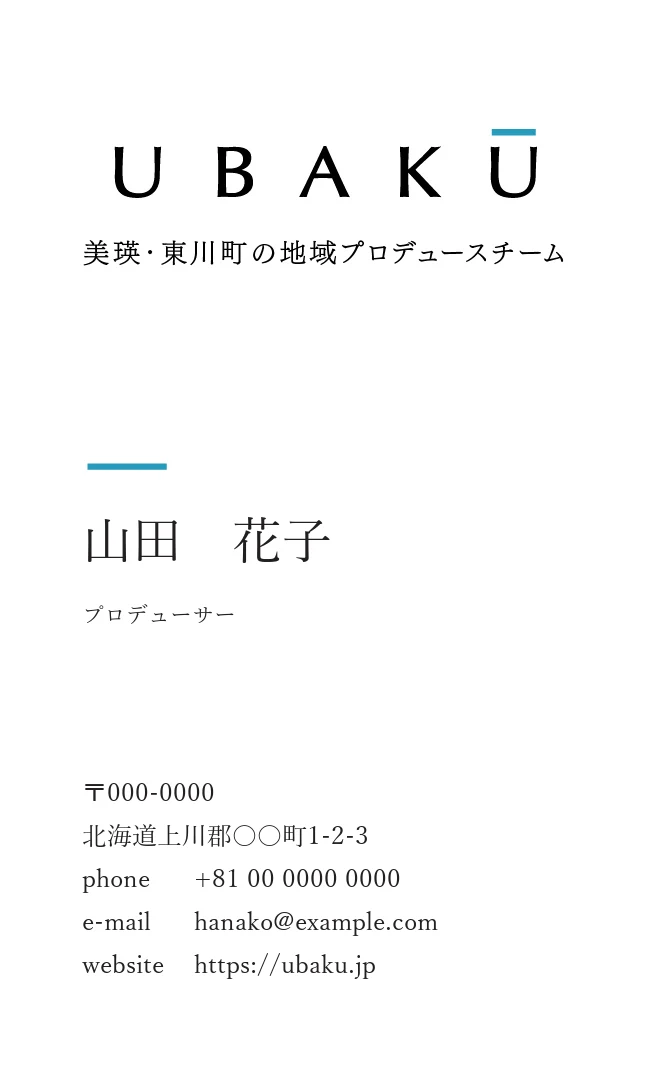
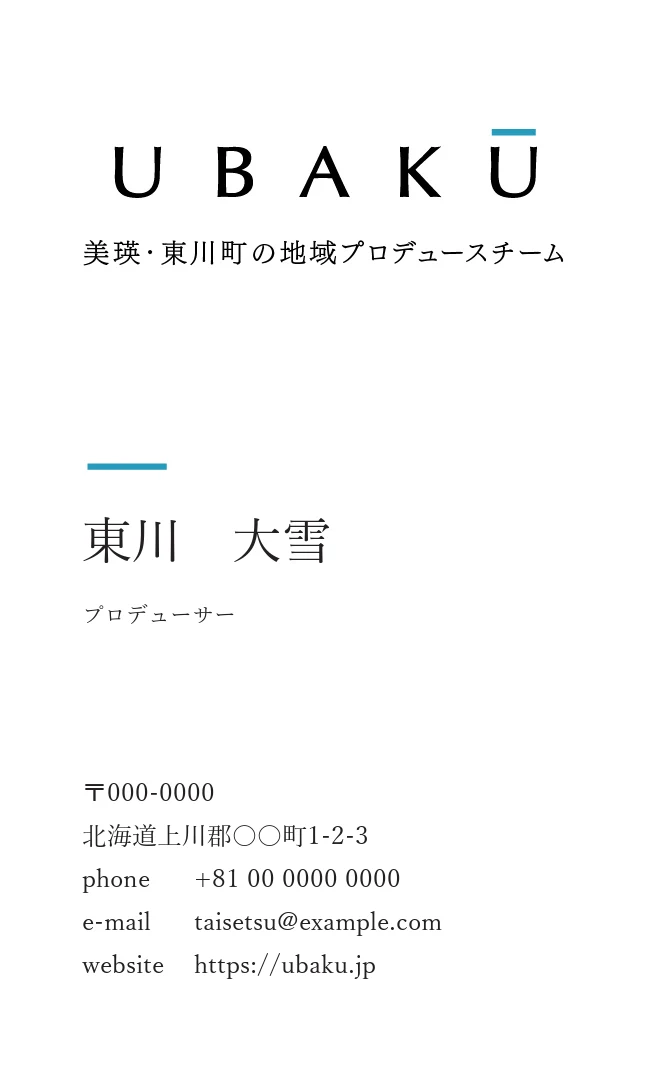
仮公開の更新（Design：スマホの写真の位置・Green・カードの大きさ・名刺の見本の名前・Contact の改行／Consulting：Step 1・リンク・余白・建物の言い方／お見積りのリンクを削除）

Changed region(s): [[0.3077, 0.8288, 0.6769, 0.8902], [0.3692, 0.4605, 0.5231, 0.5219], [0.1231, 0.4605, 0.2769, 0.5219]]

diff --git a/design/index.html b/design/index.html
@@ -29,9 +29,9 @@
 <link rel="stylesheet" href="https://fonts.googleapis.com/css2?family=Noto+Sans+JP:wght@300;400;500&family=Noto+Serif+JP:wght@400&family=Cormorant+Garamond:ital,wght@0,500;0,600;1,400;1,500&family=Jost:wght@200;300;400&family=EB+Garamond:wght@500&family=Murecho:wght@400&display=swap">
 
 <!-- デザイン：トップページと共通の style.css ＋ 下層ページ用の sub.css ＋ UBAKU Letter の札 -->
-<link rel="stylesheet" href="../assets/css/style.css?v=202610260945">
-<link rel="stylesheet" href="../assets/css/sub.css?v=202610260945">
-<link rel="stylesheet" href="../assets/css/letter.css?v=202610260945">
+<link rel="stylesheet" href="../assets/css/style.css?v=202610261842">
+<link rel="stylesheet" href="../assets/css/sub.css?v=202610261842">
+<link rel="stylesheet" href="../assets/css/letter.css?v=202610261842">
 
 <!-- Googleにページの内容を伝えるデータ（このページで受けている仕事） -->
 <script type="application/ld+json">
@@ -196,7 +196,7 @@
   <div class="case-intro js-reveal">
     <span class="label">Works 01｜北海道美瑛町・一棟貸しの宿</span>
     <p class="biz-name">UBAKU Villa <span class="biz-name-jp">宇莫別荘</span></p>
-    <p class="body">美瑛の集落・中宇莫別に建つ築約60年の建物を、フルリノベーションして一棟貸しの宿に。暗く閉じていた部屋に光を入れ、窓の外の森や丘が主役になるよう、白い壁と明るい木の床でまとめました。2026年1月開業。</p>
+    <p class="body">美瑛の集落・中宇莫別に建つ1968年築、半世紀を超えて受け継がれてきた元農家住宅を、フルリノベーションして一棟貸しの宿に。暗く閉じていた部屋に光を入れ、窓の外の森や丘が主役になるよう、白い壁と明るい木の床でまとめました。2026年1月開業。</p>
   </div>
 
   <!-- 横長の4組（1組ずつ）→ 縦長の4組（2組ずつ横に並べる）。
@@ -285,7 +285,7 @@
       <!-- ロゴ（白地） -->
       <figure class="vi vi--w4 vi--logo js-reveal vi-m3"><div class="vi-face"><span class="wordmark vi-wordmark" role="img" aria-label="UBAKU のロゴ"></span></div><figcaption>Logo｜ロゴ</figcaption></figure>
       <!-- ロゴ（緑地） -->
-      <figure class="vi vi--w2 js-reveal vi-m3"><div class="vi-face vi-face--main"><span class="wordmark vi-wordmark vi-wordmark--light" role="img" aria-label="UBAKU のロゴ（緑の地）"></span></div><figcaption>On Green｜緑の地</figcaption></figure>
+      <figure class="vi vi--w2 js-reveal vi-m3"><div class="vi-face vi-face--main"><span class="wordmark vi-wordmark vi-wordmark--light" role="img" aria-label="UBAKU のロゴ（緑の地）"></span></div><figcaption>Green｜緑の地</figcaption></figure>
       <!-- 事業ごとの色（Ū の横線） -->
       <figure class="vi vi--w6 js-reveal vi-m6"><div class="vi-face vi-face--system">
         <div><span class="wordmark" style="--logo-bar:#23A0DA" role="img" aria-label="UBAKU"></span><small>UBAKU</small></div>
@@ -321,7 +321,7 @@
   </article>
 
   <!-- ===== Brand 02：UBAKU Villa 宇莫別荘 ===== -->
-  <article class="brand" style="--b-main:#004030;--b-sub:#C4B370">
+  <article class="brand" style="--b-main:#29463D;--b-sub:#C4B370">
     <div class="brand-head js-reveal">
       <span class="label">Brand 02｜一棟貸しの宿｜2025</span>
       <p class="biz-name">UBAKU Villa <span class="biz-name-jp">宇莫別荘</span></p>
@@ -333,12 +333,12 @@
       <!-- ロゴ（白地・黒） -->
       <figure class="vi vi--w2 js-reveal vi-m2"><div class="vi-face"><img class="vi-villa" src="../assets/img/works/03-logo-black.webp?v=2" alt="UBAKU Villa 宇莫別荘のロゴ" width="1381" height="918" loading="lazy"></div><figcaption>Logo｜ロゴ</figcaption></figure>
       <!-- ロゴ（緑地・白） -->
-      <figure class="vi vi--w2 js-reveal vi-m2"><div class="vi-face vi-face--main"><img class="vi-villa" src="../assets/img/works/03-logo-white.webp?v=2" alt="UBAKU Villa 宇莫別荘のロゴ（緑の地に白）" width="1381" height="918" loading="lazy"></div><figcaption>On Green｜緑の地</figcaption></figure>
+      <figure class="vi vi--w2 js-reveal vi-m2"><div class="vi-face vi-face--main"><img class="vi-villa" src="../assets/img/works/03-logo-white.webp?v=2" alt="UBAKU Villa 宇莫別荘のロゴ（緑の地に白）" width="1381" height="918" loading="lazy"></div><figcaption>Green｜緑の地</figcaption></figure>
       <!-- ロゴ（緑地・金）：白いロゴを型にして金色で塗る -->
       <figure class="vi vi--w2 js-reveal vi-m2"><div class="vi-face vi-face--main"><span class="vi-villa vi-villa--gold" role="img" aria-label="UBAKU Villa のロゴ（緑の地に金）"></span></div><figcaption>Gold｜金色</figcaption></figure>
       <!-- カラー -->
       <figure class="vi vi--w2 vi--tall js-reveal vi-m6"><div class="vi-face vi-face--palette vi-face--palette3">
-        <span style="--c:#004030"><b>#004030</b>森の緑</span>
+        <span style="--c:#29463D"><b>#29463D</b>森の緑</span>
         <span style="--c:#C4B370"><b>#C4B370</b>金</span>
         <span style="--c:#F4F1EA" class="is-light"><b>#F4F1EA</b>生成り</span>
       </div><figcaption>Color｜カラー</figcaption></figure>
@@ -412,7 +412,7 @@
       <p class="body">予約サイトへの登録、宿の説明文や写真撮影は、UBAKU Consulting が担当します。</p>
     </article>
   </div>
-  <p class="menu-cta">費用は、ご相談の内容や建物の規模に合わせてお見積りします。まずはお気軽にご相談ください。<a class="more" href="#contact">ご相談・お見積りはこちら</a></p>
+  <p class="menu-cta">費用は、ご相談の内容や建物の規模に合わせてお見積りします。まずはお気軽にご相談ください。</p>
 </section>
 
 <!-- ======================= ⑦ FAQ｜よくあるご質問 ======================= -->
@@ -540,9 +540,9 @@
 </section>
 
 <script src="https://web3forms.com/client/script.js" async defer></script>
-<script src="../assets/js/main.js?v=202610260945"></script>
+<script src="../assets/js/main.js?v=202610261842"></script>
 <!-- UBAKU Letter：右下の札だけ（data-band="off" でページの中の購読欄は入れない） -->
-<script src="../assets/js/letter.js?v=202610260945" data-privacy="../privacy/" data-band="off"></script>
+<script src="../assets/js/letter.js?v=202610261842" data-privacy="../privacy/" data-band="off"></script>
 
 <!-- ページの一番上へ戻るボタン（矢印だけ。スクロールすると右下の UBAKU Letter の札の上に出る。2026-10-25） -->
 <a class="to-top" href="#" aria-label="ページの一番上へ"><svg viewBox="0 0 24 24" aria-hidden="true"><path d="M12 19V5M5.5 11.5 12 5l6.5 6.5"/></svg></a>

diff --git a/consulting/index.html b/consulting/index.html
@@ -29,9 +29,9 @@
 <link rel="stylesheet" href="https://fonts.googleapis.com/css2?family=Noto+Sans+JP:wght@300;400;500&family=Noto+Serif+JP:wght@400&family=Cormorant+Garamond:ital,wght@0,500;0,600;1,400;1,500&family=Jost:wght@200;300;400&family=EB+Garamond:wght@500&family=Murecho:wght@400&display=swap">
 
 <!-- デザイン：トップページと共通の style.css ＋ 下層ページ用の sub.css ＋ UBAKU Letter の札 -->
-<link rel="stylesheet" href="../assets/css/style.css?v=202610260945">
-<link rel="stylesheet" href="../assets/css/sub.css?v=202610260945">
-<link rel="stylesheet" href="../assets/css/letter.css?v=202610260945">
+<link rel="stylesheet" href="../assets/css/style.css?v=202610261842">
+<link rel="stylesheet" href="../assets/css/sub.css?v=202610261842">
+<link rel="stylesheet" href="../assets/css/letter.css?v=202610261842">
 
 <!-- Googleにページの内容を伝えるデータ（このページで受けている仕事） -->
 <script type="application/ld+json">
@@ -240,7 +240,7 @@
       <p class="support-note"><strong>運営代行は行っていません。</strong>日々の運営はオーナーご自身で。UBAKUは、仕組みづくりと改善の相談で支えます。そのため、運営サポートのメニューはあえて少なくしています。</p>
     </article>
   </div>
-  <p class="menu-cta">費用は、ご相談の内容や建物の規模に合わせてお見積りします。まずはお気軽にご相談ください。<a class="more" href="#contact">ご相談・お見積りはこちら</a></p>
+  <p class="menu-cta">費用は、ご相談の内容や建物の規模に合わせてお見積りします。まずはお気軽にご相談ください。</p>
 </section>
 
 <!-- ======================= ⑥ Case｜事例（トップの Villa と同じ形） ======================= -->
@@ -255,15 +255,15 @@
       <span class="label">Case 01｜北海道美瑛町</span>
       <h3 class="biz-name">UBAKU Villa <span class="biz-name-jp">宇莫別荘</span></h3>
       <p class="catch">1日1組限定の、一棟貸しの宿。</p>
-      <p class="body">美瑛の集落・中宇莫別に建つ築約60年の建物を、物件探しから自分たちで手がけ、2026年1月に開業しました。いまお客さまにお渡ししている支援は、すべてこの宿で一度試したものです。</p>
+      <p class="body">美瑛の集落・中宇莫別に建つ1968年築、半世紀を超えて受け継がれてきた元農家住宅を、物件探しから自分たちで手がけ、2026年1月に開業しました。いまお客さまにお渡ししている支援は、すべてこの宿で一度試したものです。</p>
       <ol class="timeline">
-        <li><span>Step 1</span><span>物件の取得・インスペクション（建物の状態の調査）</span></li>
+        <li><span>Step 1</span><span>物件の取得・建物の調査</span></li>
         <li><span>Step 2</span><span>事業計画・収支計画、融資の申し込み</span></li>
         <li><span>Step 3</span><span>フルリノベーション</span></li>
         <li><span>Step 4</span><span>旅館業の許可、予約サイトの準備など</span></li>
         <li><span>Step 5</span><span>開業。少ない人数で回せる運営へ</span></li>
       </ol>
-      <a class="more" href="../design/#works">この宿の改修のビフォー・アフターを見る（UBAKU Design）</a>
+      <a class="more" href="../design/#works">改修のビフォー・アフターを見る（UBAKU Design）</a>
     </div>
   </article>
 </section>
@@ -407,9 +407,9 @@
 </section>
 
 <script src="https://web3forms.com/client/script.js" async defer></script>
-<script src="../assets/js/main.js?v=202610260945"></script>
+<script src="../assets/js/main.js?v=202610261842"></script>
 <!-- UBAKU Letter：右下の札だけ（data-band="off" でページの中の購読欄は入れない） -->
-<script src="../assets/js/letter.js?v=202610260945" data-privacy="../privacy/" data-band="off"></script>
+<script src="../assets/js/letter.js?v=202610261842" data-privacy="../privacy/" data-band="off"></script>
 
 <!-- ページの一番上へ戻るボタン（矢印だけ。スクロールすると右下の UBAKU Letter の札の上に出る。2026-10-25） -->
 <a class="to-top" href="#" aria-label="ページの一番上へ"><svg viewBox="0 0 24 24" aria-hidden="true"><path d="M12 19V5M5.5 11.5 12 5l6.5 6.5"/></svg></a>

diff --git a/index.html b/index.html
@@ -32,8 +32,8 @@
 <link rel="stylesheet" href="https://fonts.googleapis.com/css2?family=Noto+Sans+JP:wght@300;400;500&family=Noto+Serif+JP:wght@400&family=Cormorant+Garamond:ital,wght@0,500;0,600;1,400;1,500&family=Jost:ital,wght@0,200;0,300;0,400;1,300&family=EB+Garamond:wght@500&family=Murecho:wght@400&display=swap">
 
 <!-- デザイン（色・フォント・余白はすべてこのファイルで管理） -->
-<link rel="stylesheet" href="assets/css/style.css?v=202610260945">
-<link rel="stylesheet" href="assets/css/letter.css?v=202610260945">   <!-- UBAKU Letter（メルマガ）の購読：右下の札・窓・Journal のあとの購読欄 -->
+<link rel="stylesheet" href="assets/css/style.css?v=202610261842">
+<link rel="stylesheet" href="assets/css/letter.css?v=202610261842">   <!-- UBAKU Letter（メルマガ）の購読：右下の札・窓・Journal のあとの購読欄 -->
 
 <!-- Googleに会社情報を伝えるデータ（構造化データ）
      ロゴ画像と note のURLが決まったら "logo" と sameAs に追加する -->
@@ -237,7 +237,7 @@
           <span class="label">Stay｜泊まる</span>
           <h3 class="biz-name">UBAKU Villa <span class="biz-name-jp">宇莫別荘</span></h3>
           <p class="catch">暮らしに余白をもたらす貸切宿。</p>
-          <p class="body">美瑛の集落・中宇莫別に建つ、1日1組限定の一棟貸しの宿。築約60年の建物をフルリノベーションし、2026年1月に開業。約1,800㎡の敷地に、最大10名で一棟まるごと過ごせます。旭川空港から車で約18分、美瑛駅から車で約10分。</p>
+          <p class="body">美瑛の集落・中宇莫別に建つ、1日1組限定の一棟貸しの宿。1968年築、半世紀を超えて受け継がれてきた元農家住宅をフルリノベーションし、2026年1月に開業。約1,800㎡の敷地に、最大10名で一棟まるごと過ごせます。旭川空港から車で約18分、美瑛駅から車で約10分。</p>
           <p class="biz-extra"><span>UBAKU Villa 南邸｜Coming soon</span>美瑛駅から歩いて10分の宿を準備中。</p>
           <a class="more" href="https://ubakuvilla.com" target="_blank" rel="noopener">宇莫別荘の公式サイトへ</a>
         </div>
@@ -444,9 +444,9 @@
 </section>
 
 <script src="https://web3forms.com/client/script.js" async defer></script>
-<script src="assets/js/notes.js?v=202610260945"></script>
-<script src="assets/js/main.js?v=202610260945"></script>
-<script src="assets/js/letter.js?v=202610260945"></script>
+<script src="assets/js/notes.js?v=202610261842"></script>
+<script src="assets/js/main.js?v=202610261842"></script>
+<script src="assets/js/letter.js?v=202610261842"></script>
 
 <!-- ページの一番上へ戻るボタン（矢印だけ。スクロールすると右下の UBAKU Letter の札の上に出る。2026-10-25） -->
 <a class="to-top" href="#" aria-label="ページの一番上へ"><svg viewBox="0 0 24 24" aria-hidden="true"><path d="M12 19V5M5.5 11.5 12 5l6.5 6.5"/></svg></a>

diff --git a/higashikawa/index.html b/higashikawa/index.html
@@ -12,7 +12,7 @@
 <link rel="preconnect" href="https://fonts.googleapis.com">
 <link rel="preconnect" href="https://fonts.gstatic.com" crossorigin>
 <link href="https://fonts.googleapis.com/css2?family=Noto+Sans+JP:wght@200;300;400;500&family=Cormorant+Garamond:ital,wght@0,500;1,500&family=Jost:wght@200;300;400&family=Murecho:wght@400&display=swap" rel="stylesheet">
-<link rel="stylesheet" href="../assets/css/letter.css?v=202610260945">   <!-- UBAKU Letter（メルマガ）の購読：右下の札・窓・ページの中の購読欄（ubaku.jp と共通） -->
+<link rel="stylesheet" href="../assets/css/letter.css?v=202610261842">   <!-- UBAKU Letter（メルマガ）の購読：右下の札・窓・ページの中の購読欄（ubaku.jp と共通） -->
 <link rel="stylesheet" href="village.css">
 </head>
 <body class="locked">
@@ -375,6 +375,6 @@
 
 <script src="village.js"></script>
 <!-- 購読欄は Roadmap のあと（ご連絡の面の前）に入れ、ご連絡の面が見えている間は札を隠す -->
-<script src="../assets/js/letter.js?v=202610260945" data-privacy="../privacy/" data-after="roadmap" data-hide="hello"></script>
+<script src="../assets/js/letter.js?v=202610261842" data-privacy="../privacy/" data-after="roadmap" data-hide="hello"></script>
 </body>
 </html>

diff --git a/privacy/index.html b/privacy/index.html
@@ -29,8 +29,8 @@
 <link rel="stylesheet" href="https://fonts.googleapis.com/css2?family=Noto+Sans+JP:wght@300;400;500&family=Noto+Serif+JP:wght@400&family=Cormorant+Garamond:ital,wght@0,500;0,600;1,400;1,500&family=Jost:wght@200;300;400&family=EB+Garamond:wght@500&family=Murecho:wght@400&display=swap">
 
 <!-- デザイン：トップページと共通の style.css ＋ 下層ページ用の sub.css -->
-<link rel="stylesheet" href="../assets/css/style.css?v=202610260945">
-<link rel="stylesheet" href="../assets/css/sub.css?v=202610260945">
+<link rel="stylesheet" href="../assets/css/style.css?v=202610261842">
+<link rel="stylesheet" href="../assets/css/sub.css?v=202610261842">
 </head>
 <body class="page-privacy">
 
@@ -165,7 +165,7 @@
   </div>
 </section>
 
-<script src="../assets/js/main.js?v=202610260945"></script>
+<script src="../assets/js/main.js?v=202610261842"></script>
 
 <!-- ページの一番上へ戻るボタン（矢印だけ。スクロールすると右下の UBAKU Letter の札の上に出る。2026-10-25） -->
 <a class="to-top" href="#" aria-label="ページの一番上へ"><svg viewBox="0 0 24 24" aria-hidden="true"><path d="M12 19V5M5.5 11.5 12 5l6.5 6.5"/></svg></a>

diff --git a/assets/css/sub.css b/assets/css/sub.css
@@ -661,3 +661,16 @@
 @media (max-width: 640px){.vi-face--system{gap:30px 26px;padding:32px 26px}.vi-face--system .wordmark{max-width:96px}}
 /* よくある質問と、その下の案内の面は、もっと薄いグレーに */
 .faq details,.cross{background:#F9F9F8}
+/* ---------- 2026-10-26 ---------- */
+.menu-cta{margin-top:28px}
+/* メッセージカードは実物どおり、宿泊のご案内より小さく */
+.vi-face--one img[src*="03-card-front"]{max-width:40%;max-height:66%}
+.vi-face--one img[src*="03-card-welcome"]{max-width:76%;max-height:88%}
+/* Consulting：事例と Numbers のあいだを詰める */
+.page-consulting #case{padding-bottom:calc(var(--sec-y) * .45)}
+@media (max-width: 640px){
+  /* Design のスマホのヒーロー写真：見せたいもの（窓・ダイニング／ベッドと窓）が左右の真ん中に来るように */
+  .page-design #slide-0 img{object-position:30% 50%}
+  .page-design #slide-2 img{object-position:30% 50%}
+  .contact-lead-title .sp-br{display:inline}   /* 「建物のこと、ブランドのこと、／お聞かせください。」の位置で改行 */
+}

diff --git a/layouts/index.html b/layouts/index.html
@@ -9,8 +9,8 @@
 <link rel="preconnect" href="https://fonts.googleapis.com">
 <link rel="preconnect" href="https://fonts.gstatic.com" crossorigin>
 <link rel="stylesheet" href="https://fonts.googleapis.com/css2?family=Noto+Sans+JP:wght@300;400;500&family=Noto+Serif+JP:wght@400&family=Cormorant+Garamond:ital,wght@0,500;0,600;1,400;1,500&family=Jost:wght@200;300;400&family=EB+Garamond:wght@500&family=Murecho:wght@400&display=swap">
-<link rel="stylesheet" href="../assets/css/style.css?v=202610260945">
-<link rel="stylesheet" href="../assets/css/sub.css?v=202610260945">
+<link rel="stylesheet" href="../assets/css/style.css?v=202610261842">
+<link rel="stylesheet" href="../assets/css/sub.css?v=202610261842">
 <style>
 /* =========================================================
    Consulting・Design のヒーロー（事業名・見出し・説明の3行）の並べ方の試作（仮公開だけ・本番には出さない）

diff --git a/colors/index.html b/colors/index.html
@@ -9,7 +9,7 @@
 <link rel="preconnect" href="https://fonts.googleapis.com">
 <link rel="preconnect" href="https://fonts.gstatic.com" crossorigin>
 <link rel="stylesheet" href="https://fonts.googleapis.com/css2?family=Noto+Sans+JP:wght@300;400;500&family=Jost:wght@200;300;400&family=Murecho:wght@400&display=swap">
-<link rel="stylesheet" href="../assets/css/style.css?v=202610260945">
+<link rel="stylesheet" href="../assets/css/style.css?v=202610261842">
 <style>
 /* =========================================================
    差し色を選ぶページ（仮公開だけ。本番には出さない）
